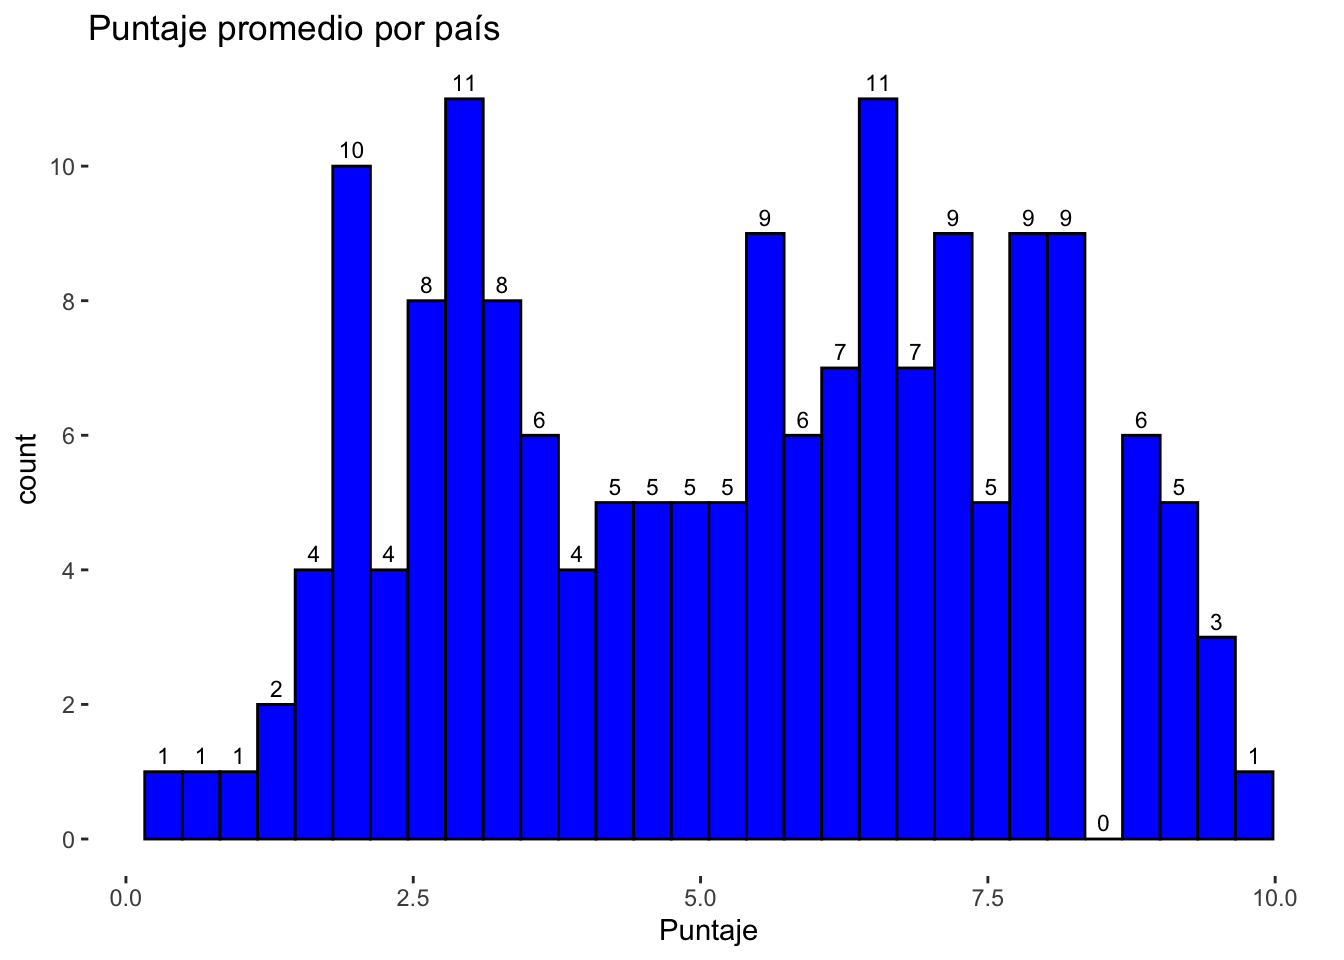
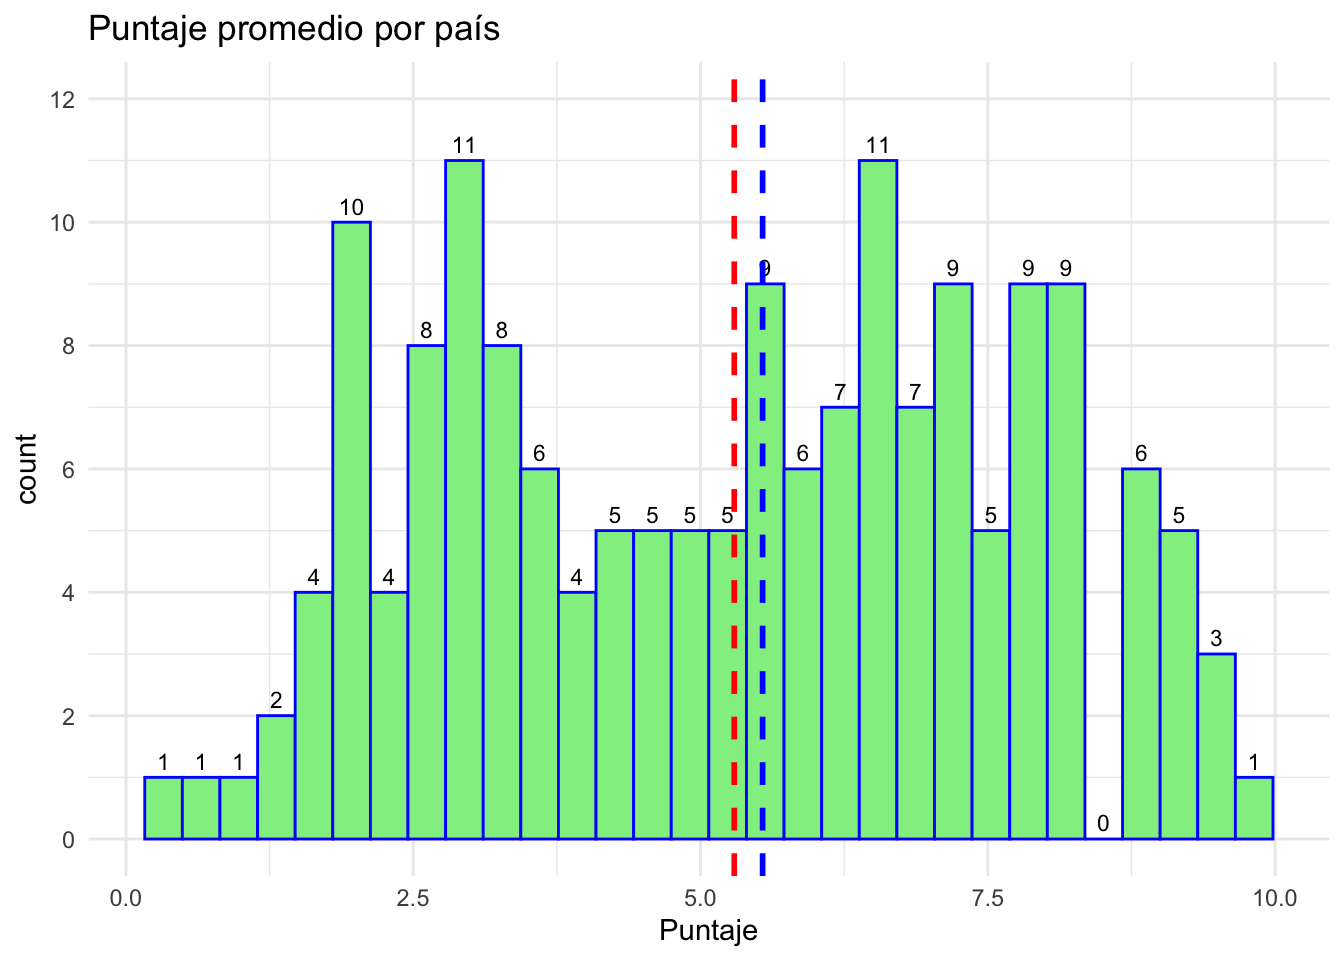
LCF

diff --git a/pd1.html b/pd1.html
@@ -13,7 +13,7 @@
 
 <title>Práctica dirigida 1</title>
 
-<script src="site_libs/header-attrs-2.25/header-attrs.js"></script>
+<script src="site_libs/header-attrs-2.26/header-attrs.js"></script>
 <script src="site_libs/jquery-3.6.0/jquery-3.6.0.min.js"></script>
 <meta name="viewport" content="width=device-width, initial-scale=1" />
 <link href="site_libs/bootstrap-3.3.5/css/cosmo.min.css" rel="stylesheet" />
@@ -638,15 +638,23 @@ la variable que queremos invocar.</p>
 </div>
 <div id="análisis-descriptivo-en-r" class="section level1">
 <h1><strong>4. Análisis descriptivo en R</strong></h1>
+<style>
+.custom-text {
+  color: #00688B;
+  font-family: Helvetica, sans-serif;
+  text-align: center;
+  font-weight: bold;
+  font-size: 22px;
+}
+</style>
+<div class="custom-text">
+<p>¿Cuál es el estado de la democracia en el mundo?</p>
+</div>
+<p>insertar foto de la caratula del informe 22</p>
 <p>AÑADIR BREVE DESCRIPCIÓN DE LA BD, explicar su composisción y link de
 informe final</p>
 <p>EDITAR: Para ello, nos planteamos la siguiente pregunta de
 investigación, que nos guiará durante toda la sesión de hoy:</p>
-<blockquote>
-<p><strong>¿Cuál es el estado de la democracia en el mundo?</strong></p>
-</blockquote>
-<p><img src="pd1_kermit.png" title="porq es importante?"
-width="117" /></p>
 <p><strong>¡Manos a la obra!</strong></p>
 <p>Importemos nuestra base de datos.</p>
 <pre class="r"><code>library(rio)    
@@ -701,8 +709,10 @@ libertades civiles.</p></li>
 <li><p><strong>Continente</strong>: región a la que pertenece el país
 analizado.</p></li>
 </ul>
-<div id="formateo-de-variables-y-frecuencia" class="section level2">
-<h2>4.1. Formateo de variables y frecuencia</h2>
+<div id="cuál-es-la-distribución-de-países-por-régimen"
+class="section level2">
+<h2><strong>4.1. ¿Cuál es la distribución de países por
+régimen?</strong></h2>
 <p>Siempre antes de comenzar a realizar nuestro análisis, debemos
 identificar la estructura de las variables y verificar que estén bien
 <em>configuradas</em>. Es decir que la escala de la variable coincida
@@ -710,18 +720,17 @@ con el objeto en R.</p>
 <p>Por ejemplo, debemos asegurarnos que una variable categórica no esté
 configurada como numérica en R, y viceversa.</p>
 <p><strong>Variable “Categorías”:</strong></p>
-<div class="line-block">¿Cuál es la frecuencia de cada régimen en la
-muestra de países?</div>
 <p>Queremos saber el tipo de régimen de cada país observado. Para ello,
-realizamos el análisis de la variable en cuestión (“Categorías”)</p>
+realizamos el análisis de la variable en cuestión
+<code>Categorías</code></p>
 <pre class="r"><code>class(data$Categorías) </code></pre>
 <pre><code>## [1] &quot;character&quot;</code></pre>
 <pre class="r"><code>library(tidyverse)</code></pre>
 <pre><code>## ── Attaching core tidyverse packages ──────────────────────── tidyverse 2.0.0 ──
-## ✔ dplyr     1.1.3     ✔ readr     2.1.4
-## ✔ forcats   1.0.0     ✔ stringr   1.5.0
-## ✔ ggplot2   3.4.3     ✔ tibble    3.2.1
-## ✔ lubridate 1.9.2     ✔ tidyr     1.3.0
+## ✔ dplyr     1.1.4     ✔ readr     2.1.5
+## ✔ forcats   1.0.0     ✔ stringr   1.5.1
+## ✔ ggplot2   3.5.0     ✔ tibble    3.2.1
+## ✔ lubridate 1.9.3     ✔ tidyr     1.3.1
 ## ✔ purrr     1.0.2     
 ## ── Conflicts ────────────────────────────────────────── tidyverse_conflicts() ──
 ## ✖ dplyr::filter()  masks stats::filter()
@@ -768,8 +777,10 @@ geom_bar(stat = &quot;identity&quot;)+
 numéricos de números enteros (integer), por lo cual lo dejamos así
 😸.</p>
 </div>
-<div id="media-y-mediana" class="section level2">
-<h2>4.2 Media y mediana</h2>
+<div id="cuál-es-la-distribución-de-países-por-puntaje"
+class="section level2">
+<h2><strong>4.2 ¿Cuál es la distribución de países por
+puntaje?</strong></h2>
 <p>Entonces, una vez configurados adecuadamente nuestros
 <strong>objetos</strong>, pidamos los estadísticos de tendencia central
 para nuestras variables de interés.</p>
@@ -790,8 +801,8 @@ data %&gt;% summarise(media = mean(Puntaje)) #este comando nos permitirá calcul
 ## 1 5.293174</code></pre>
 <p>Este resultado quiere decir que el <strong>puntaje promedio</strong>
 de todos los países analizados es de 5.29 puntos.</p>
-<p>En segundo lugar, nos piden calcular la mediana de los puntajes. Esta
-medida es más robusta que la media, pues resiste valores extremos.</p>
+<p>En segundo lugar, calculamos la mediana de los puntajes. Esta medida
+es más robusta que la media, pues resiste valores extremos.</p>
 <pre class="r"><code>library(DescTools)
 data %&gt;% summarise(mediana = median(Puntaje)) #calcular la mediana. Al igual que con la media, se sugiere leer el comando de derecha a izquierda.</code></pre>
 <pre><code>##   mediana
@@ -817,12 +828,20 @@ geom_histogram() </code></pre>
 <p>Si lo queremos personalizar :)</p>
 <pre class="r"><code>data %&gt;%
   ggplot(aes(x = Puntaje)) + 
-  geom_histogram(color = &quot;black&quot;, fill = &quot;blue&quot;) +
-  geom_text(stat = &#39;bin&#39;, aes(y = stat(count), label = stat(count)), vjust = -0.5, size = 3, color = &quot;black&quot;, bins = 30) +
+  geom_histogram(color = &quot;blue&quot;, fill = &quot;#90EE90&quot;, bins = 30) +
+  geom_text(stat = &#39;bin&#39;, aes(y = stat(count), label = stat(count)), vjust = -0.5, size = 3, color = &quot;black&quot;) +
   ggtitle(&quot;Puntaje promedio por país&quot;) +
-  theme(panel.background = element_rect(fill = &quot;white&quot;, colour = &quot;white&quot;)) +
-  scale_y_continuous(breaks = seq(0, 14, by = 2), 
-                     labels = seq(0, 14, by = 2))</code></pre>
+  
+  scale_y_continuous(breaks = seq(0, 12, by = 2), labels = seq(0, 12, by = 2)) +
+  expand_limits(y = 12) +
+  geom_vline(xintercept =  mean(data$Puntaje, na.rm = TRUE), color = &quot;red&quot;, linetype = &quot;dashed&quot;, size = 1) + # Línea de la media
+  geom_vline(xintercept = median(data$Puntaje, na.rm = TRUE), color = &quot;blue&quot;, linetype = &quot;dashed&quot;, size = 1) + # Línea de la mediana
+  theme_minimal()</code></pre>
+<pre><code>## Warning: Using `size` aesthetic for lines was deprecated in ggplot2 3.4.0.
+## ℹ Please use `linewidth` instead.
+## This warning is displayed once every 8 hours.
+## Call `lifecycle::last_lifecycle_warnings()` to see where this warning was
+## generated.</code></pre>
 <pre><code>## Warning: `stat(count)` was deprecated in ggplot2 3.4.0.
 ## ℹ Please use `after_stat(count)` instead.
 ## This warning is displayed once every 8 hours.
@@ -871,13 +890,13 @@ se llama <strong>Tabla resumen</strong></p>
 ## 3 Europa del Este     5.39    6.28
 ## 4 LatinoAmerica       5.79    6.34
 ## 5 Sub-Saharan Africa  4.05    3.64</code></pre>
-</div>
 <div
 id="ejercicio-escojan-una-variable-numérica-que-no-hayamos-utilizado-y-hallen-la-mediana-y-la-media-de-dicha-variable-por-continente."
-class="section level2">
-<h2>Ejercicio: Escojan una variable numérica que no hayamos utilizado y
-hallen la mediana y la media de dicha variable, por continente.</h2>
+class="section level5">
+<h5>Ejercicio: Escojan una variable numérica que no hayamos utilizado y
+hallen la mediana y la media de dicha variable, por continente.</h5>
 <p><br></br> <a href="#beginning">Go to page beginning</a></p>
+</div>
 </div>
 </div>
 

diff --git a/site_libs/header-attrs-2.26/header-attrs.js b/site_libs/header-attrs-2.26/header-attrs.js
@@ -1,0 +1,12 @@
+// Pandoc 2.9 adds attributes on both header and div. We remove the former (to
+// be compatible with the behavior of Pandoc < 2.8).
+document.addEventListener('DOMContentLoaded', function(e) {
+  var hs = document.querySelectorAll("div.section[class*='level'] > :first-child");
+  var i, h, a;
+  for (i = 0; i < hs.length; i++) {
+    h = hs[i];
+    if (!/^h[1-6]$/i.test(h.tagName)) continue;  // it should be a header h1-h6
+    a = h.attributes;
+    while (a.length > 0) h.removeAttribute(a[0].name);
+  }
+});
